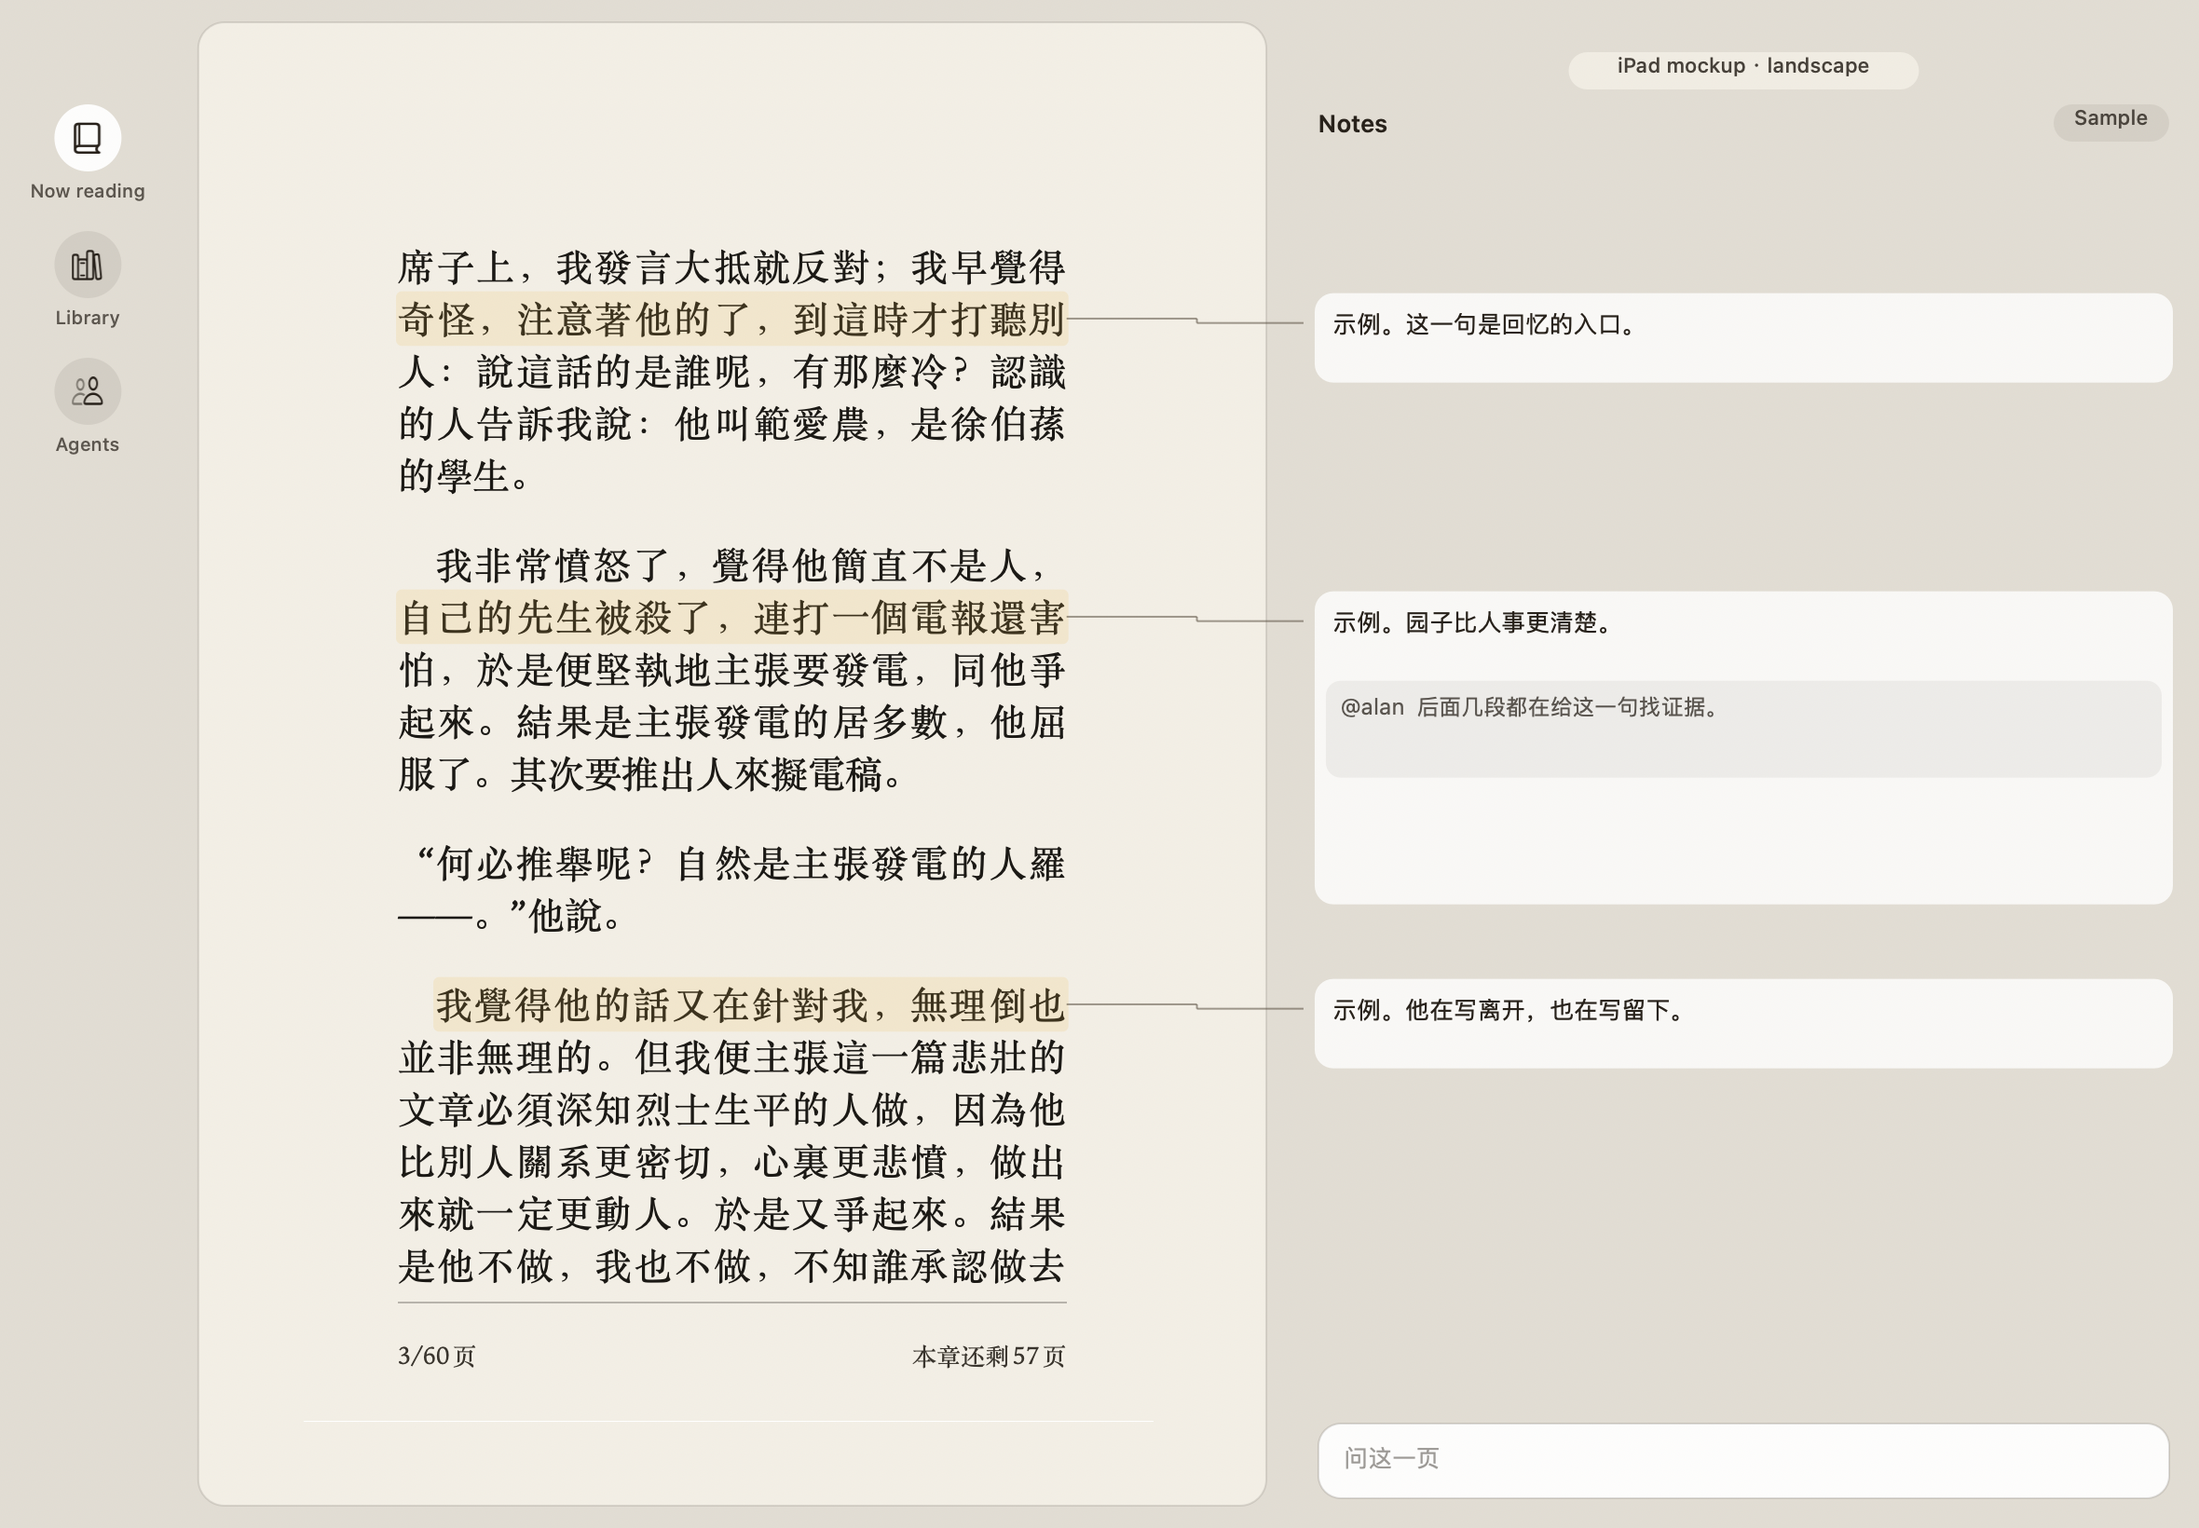
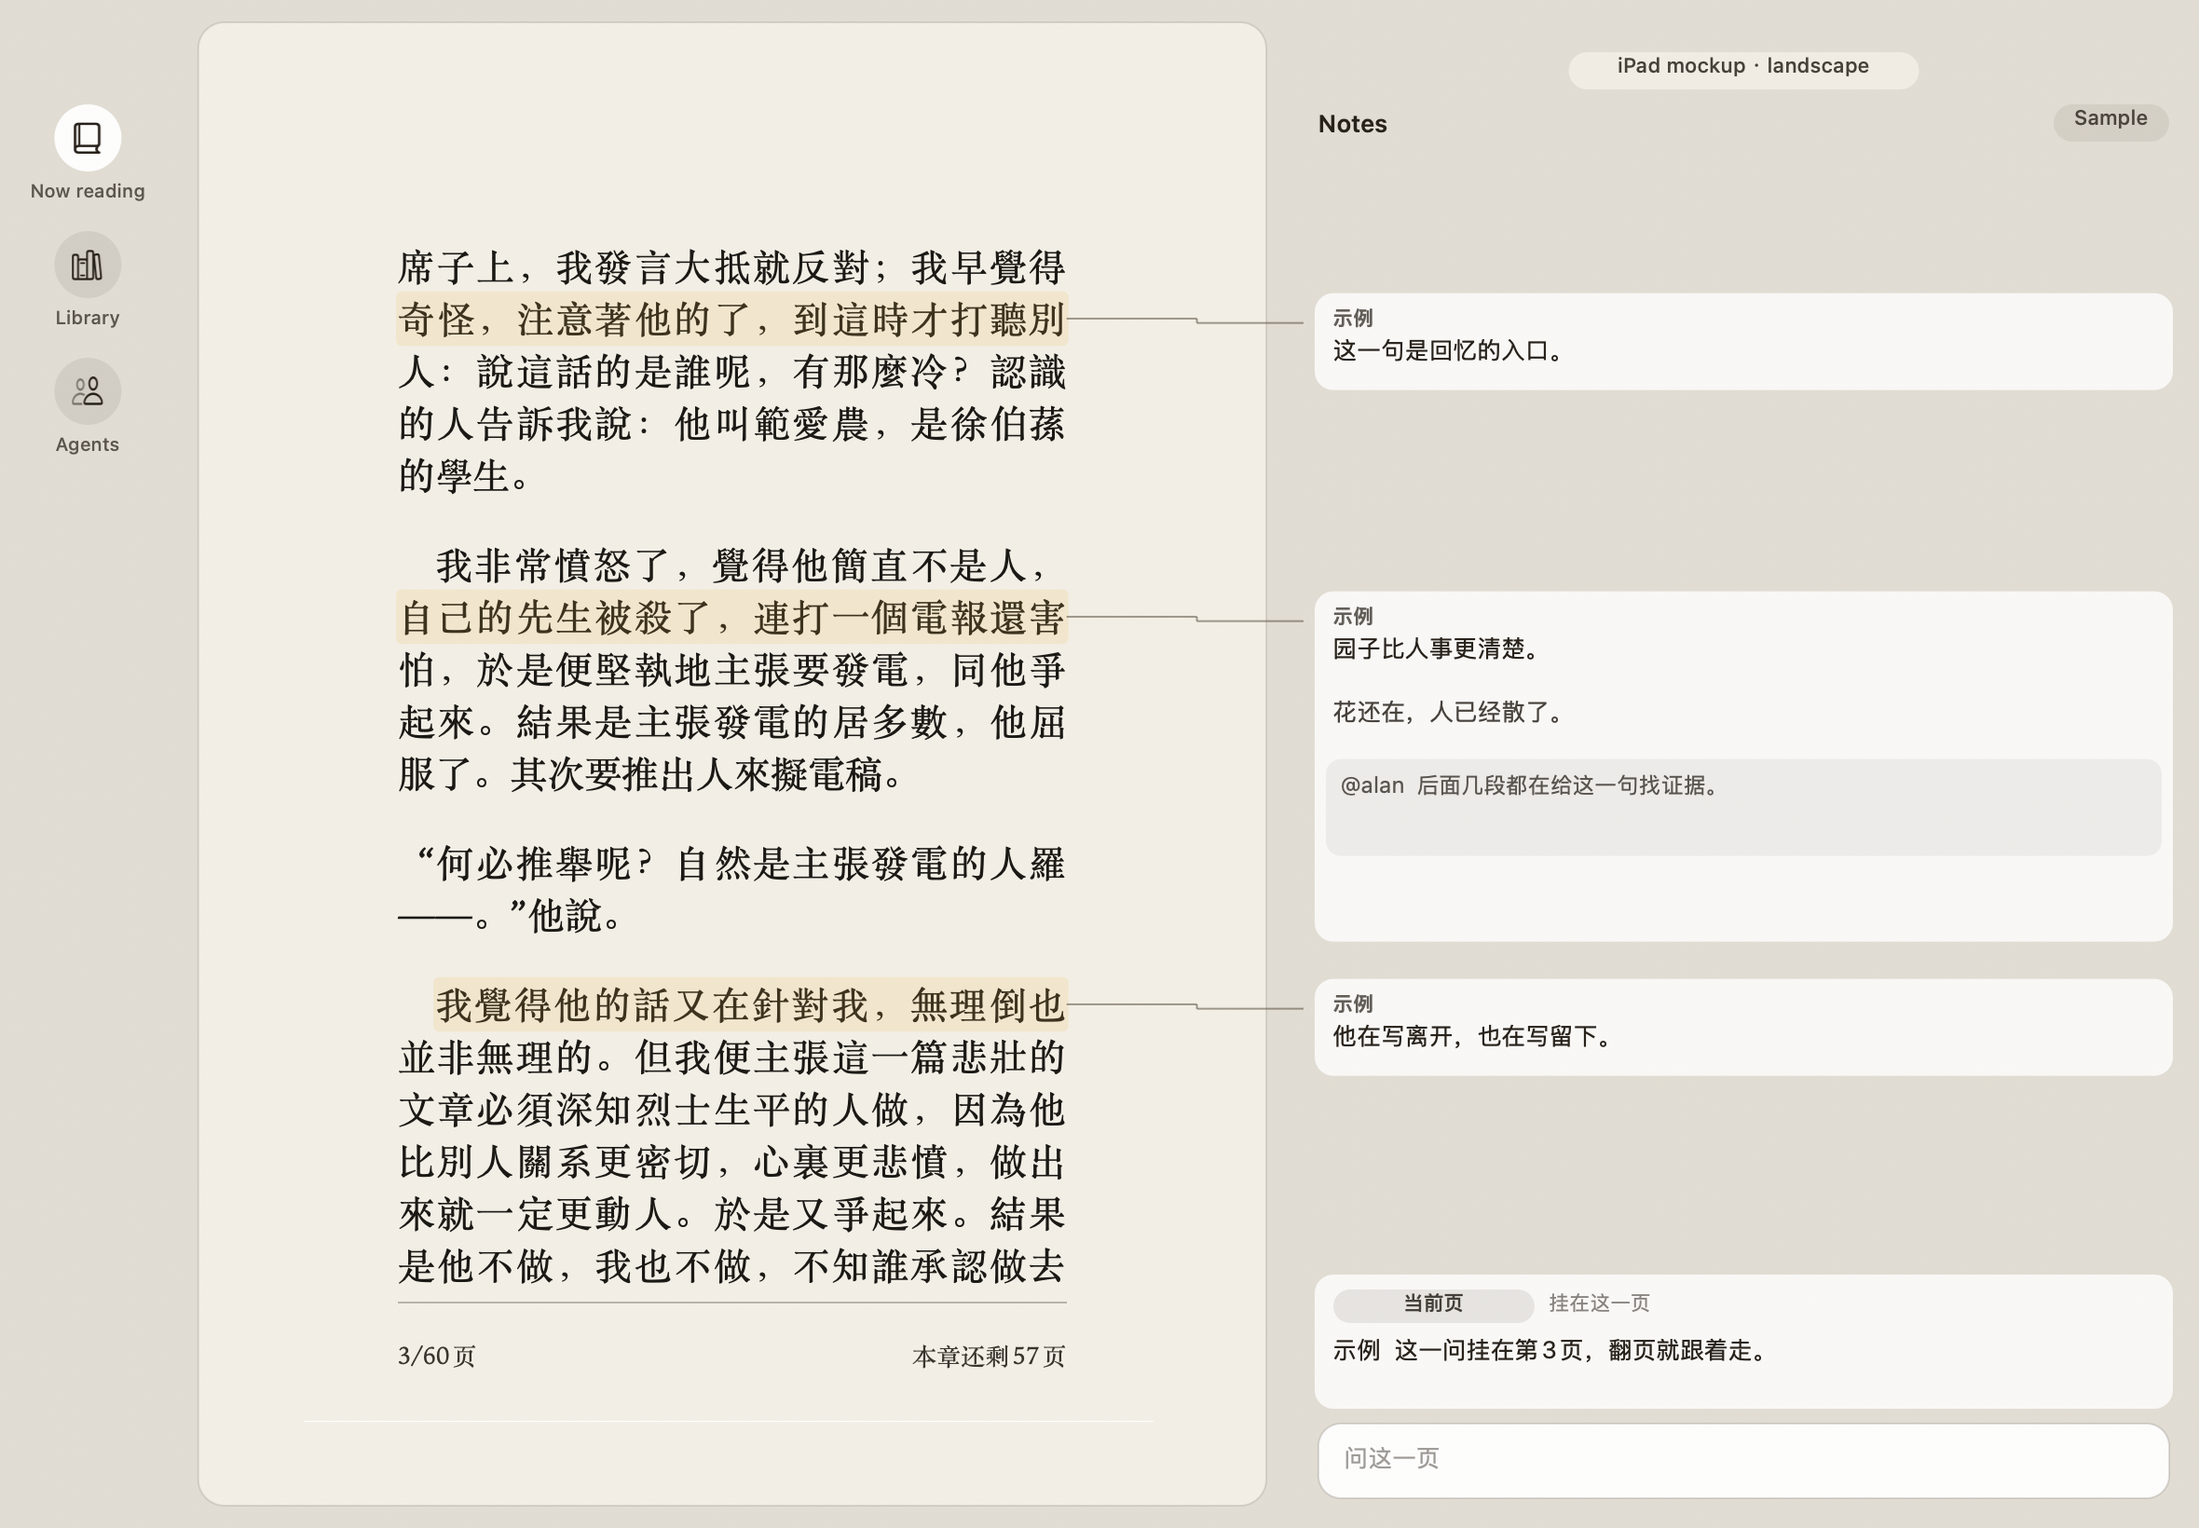
Show the four right-panel requirements on every card style.
Collapsed cards keep the annotator and the first sentence. The selected card opens the rest and the @alan thread. A current-page note sits above the input and changes when the page turns. Crowded cards flow down, and the requirements sheets label each point.

diff --git a/spikes/shell/src/overlay.rs b/spikes/shell/src/overlay.rs
@@ -31,6 +31,9 @@ pub struct Paint {
     pub drawer: Option<Band>,
     pub notes: Vec<Note>,
     pub placed: Vec<PlacedCard>,
+    pub page_chip: String,
+    pub page_author: String,
+    pub page_sentence: String,
     pub plate: String,
     pub ready: bool,
     pub window_w: f64,
@@ -53,6 +56,9 @@ impl Default for Paint {
             drawer: None,
             notes: Vec::new(),
             placed: Vec::new(),
+            page_chip: String::new(),
+            page_author: String::new(),
+            page_sentence: String::new(),
             plate: String::new(),
             ready: false,
             window_w: 0.0,
@@ -185,6 +191,7 @@ fn draw_paint(paint: &Paint, plate_slot: &RefCell<Option<(String, Retained<NSIma
         let floating = paint.drawer.is_some();
         draw_panel(panel, floating);
         draw_notes(paint, panel);
+        draw_page_note(paint, panel);
         draw_input(paint, panel);
     }
     draw_toolbar(paint);
@@ -213,13 +220,21 @@ fn draw_highlights(paint: &Paint) {
     }
 }
 
+fn note_is_visible(placed_y: f64, cutoff: f64) -> bool {
+    placed_y + 28.0 < cutoff
+}
+
 fn draw_connectors(paint: &Paint, panel: Band) {
+    let cutoff = page_note_band(panel).y - 8.0;
     let color = NSColor::colorWithRed_green_blue_alpha(0.35, 0.30, 0.24, 0.55);
     color.setStroke();
     for note in &paint.notes {
         let Some(placed) = paint.placed.iter().find(|item| item.id == note.id) else {
             continue;
         };
+        if !note_is_visible(placed.y, cutoff) {
+            continue;
+        }
         let line = line_band(paint.page, &note.line);
         let y0 = line.y + line.h * 0.5;
         let x0 = line.x + line.w;
@@ -296,13 +311,23 @@ fn draw_panel(panel: Band, floating: bool) {
     draw_text("Sample", chip_band, 11.0, 0.23, &ink(0.8), false, NSTextAlignment::Center);
 }
 
+fn page_note_band(panel: Band) -> Band {
+    let height = 72.0;
+    Band {
+        x: panel.x + 14.0,
+        y: panel.y + panel.h - 56.0 - 8.0 - height,
+        w: panel.w - 28.0,
+        h: height,
+    }
+}
+
 fn draw_notes(paint: &Paint, panel: Band) {
-    let input_top = panel.y + panel.h - 72.0;
+    let input_top = page_note_band(panel).y - 8.0;
     for note in &paint.notes {
         let Some(placed) = paint.placed.iter().find(|item| item.id == note.id) else {
             continue;
         };
-        if placed.y > input_top {
+        if !note_is_visible(placed.y, input_top) {
             continue;
         }
         let card = Band {
@@ -328,14 +353,55 @@ fn draw_card(paint: &Paint, note: &Note, card: Band, open: bool) {
         Variant::Margin => {}
     }
     let inset = if paint.variant == Variant::Quote { 12.0 } else { 10.0 };
-    let mut y = card.y + 8.0;
     let text_w = card.w - inset - 10.0;
     let x = card.x + inset;
-    if open && paint.variant == Variant::Quote {
+    draw_text(
+        &note.author,
+        Band { x, y: card.y + 6.0, w: text_w, h: 14.0 },
+        11.0,
+        0.4,
+        &ink(0.72),
+        false,
+        NSTextAlignment::Left,
+    );
+    if !open {
+        draw_text(
+            &note.sentence,
+            Band { x, y: card.y + 22.0, w: text_w, h: 22.0 },
+            13.0,
+            0.0,
+            &ink(1.0),
+            false,
+            NSTextAlignment::Left,
+        );
+        return;
+    }
+    let mut y = card.y + 22.0;
+    draw_text(
+        &note.sentence,
+        Band { x, y, w: text_w, h: 32.0 },
+        13.0,
+        0.0,
+        &ink(1.0),
+        true,
+        NSTextAlignment::Left,
+    );
+    y += 34.0;
+    draw_text(
+        &note.more,
+        Band { x, y, w: text_w, h: 32.0 },
+        13.0,
+        0.0,
+        &ink(0.85),
+        true,
+        NSTextAlignment::Left,
+    );
+    y += 34.0;
+    if paint.variant == Variant::Quote {
         let quote = clip_chars(&note.line.text, 90);
         draw_text(
             &quote,
-            Band { x, y, w: text_w, h: 34.0 },
+            Band { x, y, w: text_w, h: 32.0 },
             12.0,
             0.0,
             &ink(0.62),
@@ -344,20 +410,6 @@ fn draw_card(paint: &Paint, note: &Note, card: Band, open: bool) {
         );
         y += 36.0;
     }
-    let body_h = if open { 36.0 } else { card.h - 12.0 };
-    draw_text(
-        &note.body,
-        Band { x, y, w: text_w, h: body_h.max(16.0) },
-        13.0,
-        0.0,
-        &ink(1.0),
-        true,
-        NSTextAlignment::Left,
-    );
-    if !open {
-        return;
-    }
-    y += 40.0;
     match paint.variant.thread() {
         Thread::Plain => {
             draw_text(
@@ -398,6 +450,47 @@ fn draw_card(paint: &Paint, note: &Note, card: Band, open: bool) {
             );
         }
     }
+}
+
+fn draw_page_note(paint: &Paint, panel: Band) {
+    if paint.page_sentence.is_empty() {
+        return;
+    }
+    let card = page_note_band(panel);
+    match paint.variant {
+        Variant::Card => {
+            fill_round(ns(card), 10.0, &NSColor::colorWithRed_green_blue_alpha(1.0, 1.0, 1.0, 0.78));
+        }
+        Variant::Quote => {
+            let bar = NSColor::colorWithRed_green_blue_alpha(0.42, 0.34, 0.24, 0.45);
+            bar.setFill();
+            NSBezierPath::fillRect(ns(Band { x: card.x, y: card.y + 2.0, w: 2.0, h: card.h - 4.0 }));
+        }
+        Variant::Margin => {}
+    }
+    let chip = Band { x: card.x + 10.0, y: card.y + 8.0, w: 108.0, h: 18.0 };
+    fill_round(ns(chip), 9.0, &NSColor::colorWithRed_green_blue_alpha(0.25, 0.2, 0.14, 0.1));
+    draw_text(&paint.page_chip, chip, 11.0, 0.3, &ink(0.85), false, NSTextAlignment::Center);
+    let attached = if paint.chinese { "挂在这一页" } else { "Attached to this page" };
+    draw_text(
+        attached,
+        Band { x: chip.x + chip.w + 8.0, y: chip.y, w: card.w - chip.w - 28.0, h: 18.0 },
+        11.0,
+        0.0,
+        &ink(0.55),
+        false,
+        NSTextAlignment::Left,
+    );
+    let body = format!("{}  {}", paint.page_author, paint.page_sentence);
+    draw_text(
+        &body,
+        Band { x: card.x + 10.0, y: card.y + 32.0, w: card.w - 20.0, h: 32.0 },
+        13.0,
+        0.0,
+        &ink(1.0),
+        true,
+        NSTextAlignment::Left,
+    );
 }
 
 fn draw_input(paint: &Paint, panel: Band) {

diff --git a/spikes/shell/src/panels.rs b/spikes/shell/src/panels.rs
@@ -110,8 +110,17 @@ pub struct Line {
 pub struct Note {
     pub id: u8,
     pub line: Line,
-    pub body: String,
+    pub author: String,
+    pub sentence: String,
+    pub more: String,
     pub reply: String,
+}
+
+#[derive(Clone, Debug, PartialEq, Eq)]
+pub struct PageNote {
+    pub chip: String,
+    pub author: String,
+    pub sentence: String,
 }
 
 #[derive(Clone, Copy, Debug)]
@@ -230,11 +239,19 @@ impl Variant {
 
 pub fn card_metrics(variant: Variant) -> (f64, f64) {
     let expanded = match variant {
-        Variant::Margin => 128.0,
-        Variant::Card => 168.0,
-        Variant::Quote => 196.0,
+        Variant::Margin => 156.0,
+        Variant::Card => 188.0,
+        Variant::Quote => 220.0,
     };
-    (48.0, expanded)
+    (52.0, expanded)
+}
+
+pub fn collapsed_copy(note: &Note) -> String {
+    format!("{}\n{}", note.author, note.sentence)
+}
+
+pub fn expanded_copy(note: &Note) -> String {
+    format!("{}\n{}\n{}\n{}", note.author, note.sentence, note.more, note.reply)
 }
 
 pub fn max_columns(surface: Surface, width: f64) -> u8 {
@@ -516,21 +533,21 @@ pub fn lines_plausible(lines: &[Line], page_w: f64) -> bool {
 }
 
 pub fn notes_for(chinese: bool, lines: &[Line]) -> Vec<Note> {
-    let bodies: &[&str] = if chinese {
+    let notes: &[(&str, &str, &str)] = if chinese {
         &[
-            "示例。这一句是回忆的入口。",
-            "示例。园子比人事更清楚。",
-            "示例。他在写离开，也在写留下。",
-            "示例。花是给记忆用的。",
-            "示例。句子很短，时间很长。",
+            ("示例", "这一句是回忆的入口。", "后面才写到人。"),
+            ("示例", "园子比人事更清楚。", "花还在，人已经散了。"),
+            ("示例", "他在写离开，也在写留下。", "两件事是一句。"),
+            ("示例", "花是给记忆用的。", "不是给园子看的。"),
+            ("示例", "句子很短，时间很长。", "短的是这一行。"),
         ]
     } else {
         &[
-            "Sample. The joke is the premise.",
-            "Sample. She is counting, not admiring.",
-            "Sample. The room does the talking.",
-            "Sample. Manners, used as strategy.",
-            "Sample. The sentence smiles and cuts.",
+            ("Sample", "The joke is the premise.", "She says it before anyone has earned it."),
+            ("Sample", "She is counting, not admiring.", "The neighbours hear the compliment and miss the sum."),
+            ("Sample", "The room does the talking.", "Nobody in it has spoken a true sentence yet."),
+            ("Sample", "Manners, used as strategy.", "The courtesy is the weapon."),
+            ("Sample", "The sentence smiles and cuts.", "The smile is the longer part."),
         ]
     };
     let reply = if chinese {
@@ -541,13 +558,35 @@ pub fn notes_for(chinese: bool, lines: &[Line]) -> Vec<Note> {
     lines
         .iter()
         .enumerate()
-        .map(|(index, line)| Note {
-            id: index as u8,
-            line: line.clone(),
-            body: bodies[index % bodies.len()].to_string(),
-            reply: reply.to_string(),
+        .map(|(index, line)| {
+            let (author, sentence, more) = notes[index % notes.len()];
+            Note {
+                id: index as u8,
+                line: line.clone(),
+                author: author.to_string(),
+                sentence: sentence.to_string(),
+                more: more.to_string(),
+                reply: reply.to_string(),
+            }
         })
         .collect()
+}
+
+pub fn page_note(chinese: bool, page: usize) -> PageNote {
+    let page = page.max(1);
+    if chinese {
+        PageNote {
+            chip: "当前页".to_string(),
+            author: "示例".to_string(),
+            sentence: format!("这一问挂在第{page}页，翻页就跟着走。"),
+        }
+    } else {
+        PageNote {
+            chip: "Current page".to_string(),
+            author: "Sample".to_string(),
+            sentence: format!("This question hangs on page {page} and moves with the turn."),
+        }
+    }
 }
 
 pub fn scale_lines(lines: &[Line], from: PageSize, to: PageSize) -> Vec<Line> {
@@ -927,11 +966,20 @@ mod tests {
             text: "It is a truth".into(),
         }];
         let english = notes_for(false, &lines);
-        assert!(english[0].body.starts_with("Sample."));
-        assert!(english[0].reply.contains("@alan"));
+        assert_eq!(english[0].author, "Sample");
+        assert!(!collapsed_copy(&english[0]).contains(&english[0].more));
+        assert!(expanded_copy(&english[0]).contains(&english[0].more));
+        assert!(expanded_copy(&english[0]).contains("@alan"));
         let chinese = notes_for(true, &lines);
-        assert!(chinese[0].body.starts_with("示例"));
+        assert!(chinese[0].author.starts_with("示例"));
         assert!(chinese[0].reply.contains("@alan"));
+        let first = page_note(false, 1);
+        let second = page_note(false, 2);
+        assert_eq!(first.chip, "Current page");
+        assert_ne!(first.sentence, second.sentence);
+        assert!(first.sentence.contains('1'));
+        assert!(second.sentence.contains('2'));
+        assert_eq!(page_note(true, 3).chip, "当前页");
     }
 
     #[test]

diff --git a/spikes/shell/src/stage.rs b/spikes/shell/src/stage.rs
@@ -1157,6 +1157,16 @@ impl State {
             paint.drawer = geo.drawer;
             paint.notes = notes;
             paint.placed = placed;
+            let page_number = self
+                .web
+                .as_ref()
+                .and_then(|web| web.inbox.borrow().pages)
+                .map(|(page, _)| page)
+                .unwrap_or(if self.book_kind == "zhaohua" { 3 } else { 1 });
+            let page_note = crate::panels::page_note(self.book_kind == "zhaohua", page_number);
+            paint.page_chip = page_note.chip;
+            paint.page_author = page_note.author;
+            paint.page_sentence = page_note.sentence;
             paint.plate = plate;
             paint.ready = ready;
             paint.window_w = used_w;

diff --git a/docs/design/prototypes/panels/README.md b/docs/design/prototypes/panels/README.md
@@ -18,6 +18,17 @@ Companion form, one card open and the others collapsed. The crowded picture is t
 
 The light card is the one to keep. Margin text sinks into the paper. The quote repeats a line the highlight already shows, and on a hyphenated page that quote is a fragment.
 
+## The four points
+
+`docs/design/north-star.md` fixes the panel. Every card style shows the same four points.
+
+- Cards sit on their lines. A crowded group flows down, and the selected card snaps to its line.
+- The open card has an @alan thread under the annotation.
+- The input stays at the bottom. A note labeled Current page sits above it. It is attached to the current page and moves when the page turns. The before frame is the companion picture. The after frame is `page-after-`.
+- A closed card shows the annotator and the first sentence. The selected card is expanded, and that is where the rest of the note and the @alan reply appear.
+
+`requirements-pride.png` and `requirements-zhaohua.png` label the four points. Margin, light card, and quote each have a crowded frame and a page-turn frame. The Pride crowded frames are page 2, so the stack has room to flow down.
+
 ## Collapse
 
 Same choice on every frame. Both panels are open. The window closes the left bar first, then turns the right panel into a drawer.
